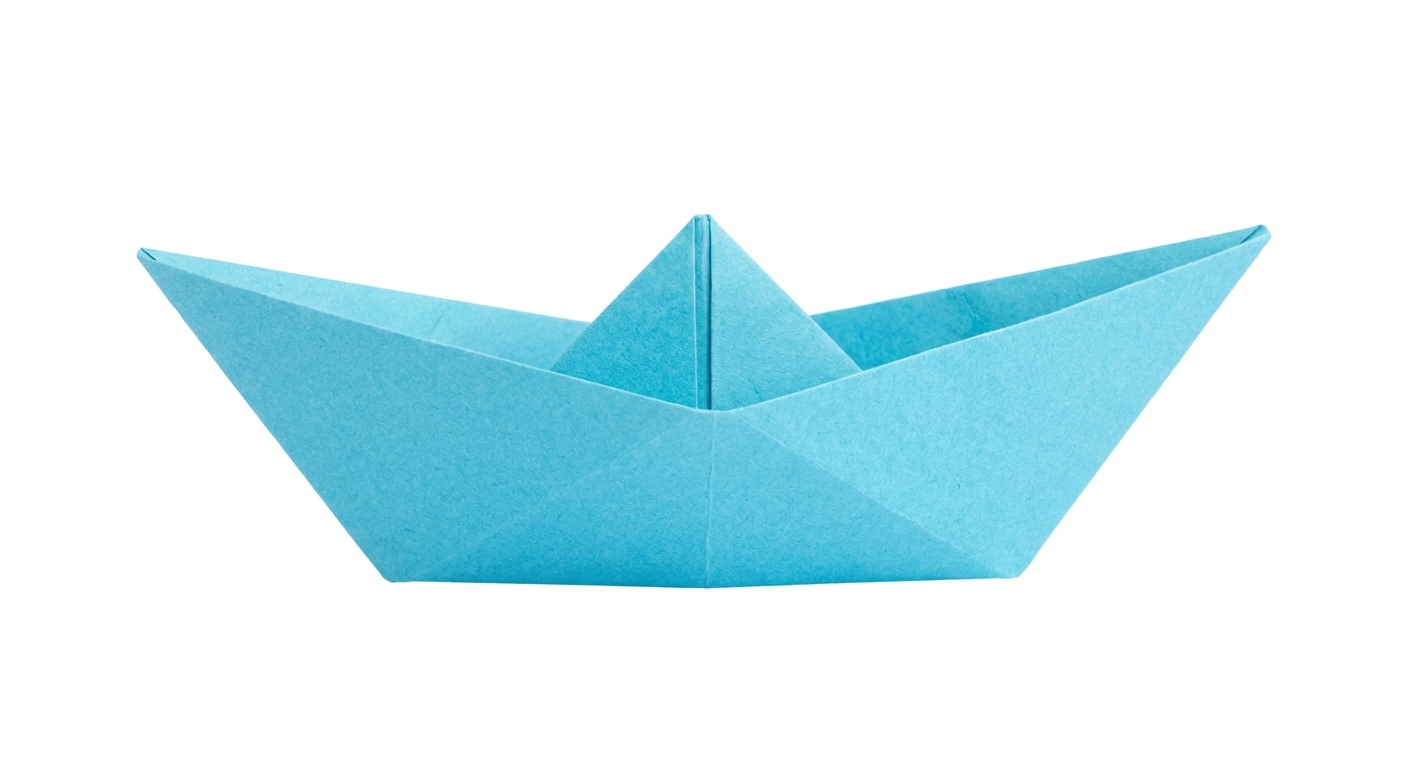
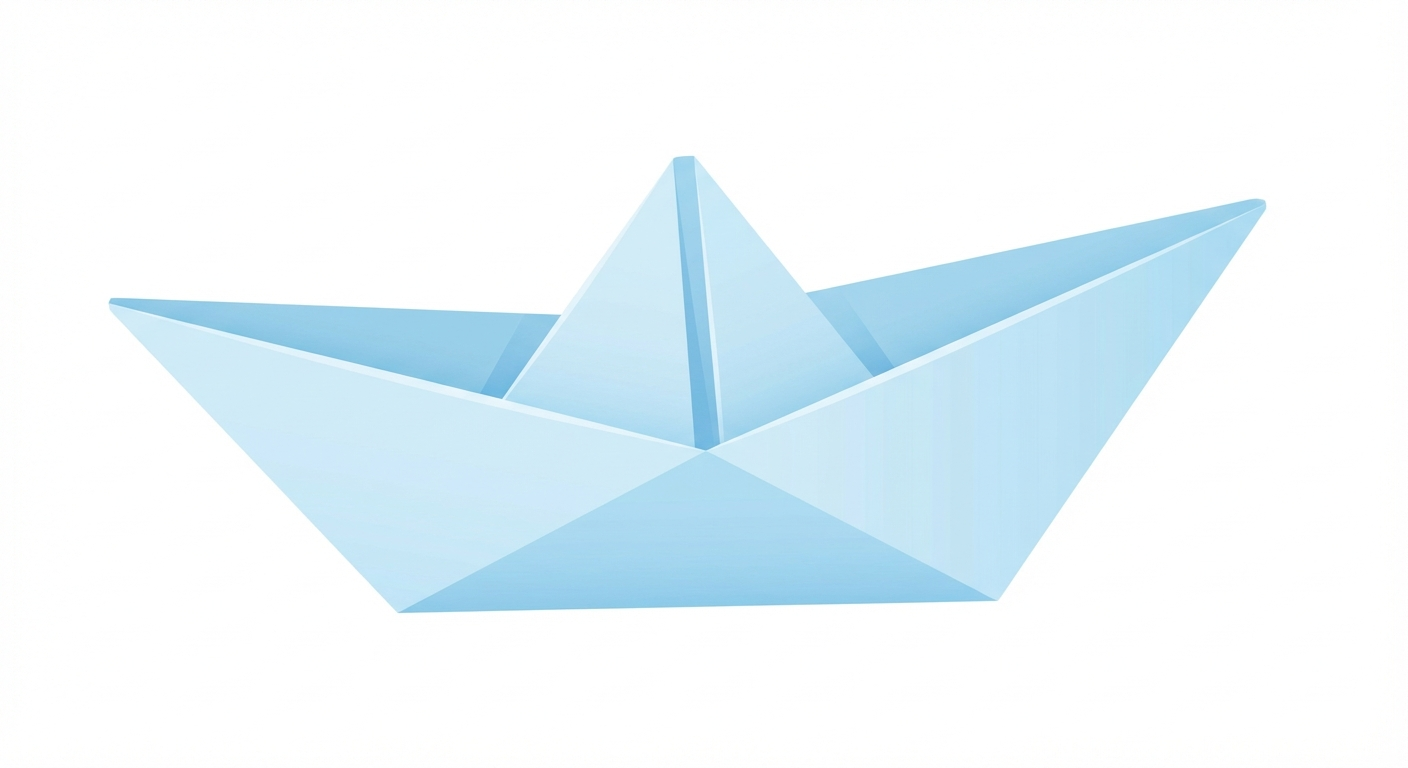
Update boat asset - Stylized Origami 2.5D (Best Practice 2026)
Changes:
- Replaced realistic boat with stylized 2.5D origami illustration
- Clean flat colors with subtle gradients for depth
- Visible geometric fold lines maintained
- Soft shading between flat and realistic
- Zero edge artifacts with AI background removal

Style improvements:
- More game-appropriate aesthetic
- Easier to personalize/color (colorMultiply support)
- Consistent look for future 17-asset set
- Modern minimalist zen design
- Better performance (simpler geometry)

Prompt style (2.5D Stylized Origami):
"stylized minimalist art style, visible geometric fold lines,
soft shading for depth, simplified forms, clean flat colors,
2.5D illustration, game-ready asset"

Technical:
- Updated ASSET_PROMPTS.md with new style guide
- AI background removal (rembg/U²-Net)
- White background for clean results

Generated with Claude Code

Changed region(s): [[0.0625, 0.1875, 0.9062, 0.8125]]

diff --git a/ASSET_PROMPTS.md b/ASSET_PROMPTS.md
@@ -19,7 +19,13 @@
 ### 1. Default Boot (🚤)
 **Prompt:**
 ```
-Create an origami paper boat viewed from the side in a minimalistic zen style. The boat should be folded from white or light blue origami paper with visible paper fold lines and creases. Simple geometric shapes, clean lines. The boat should face right (sailing direction). Isolated object on pure white background. No water, no waves, no reflections, no shadows. Style: flat, minimalist, origami paper art, zen aesthetic, clean product shot.
+Create an origami paper boat in a stylized minimalist art style.
+Viewed from the side, facing right (sailing direction).
+Light blue origami paper with visible geometric fold lines and creases.
+Soft shading for depth, but simplified forms and clean flat colors with subtle gradients.
+2.5D illustration style - between flat and realistic.
+Isolated on pure white background. No water, no waves, no reflections, no cast shadows.
+Style: modern minimalist, zen aesthetic, game-ready asset, stylized origami illustration.
 ```
 
 **Animationen:**
